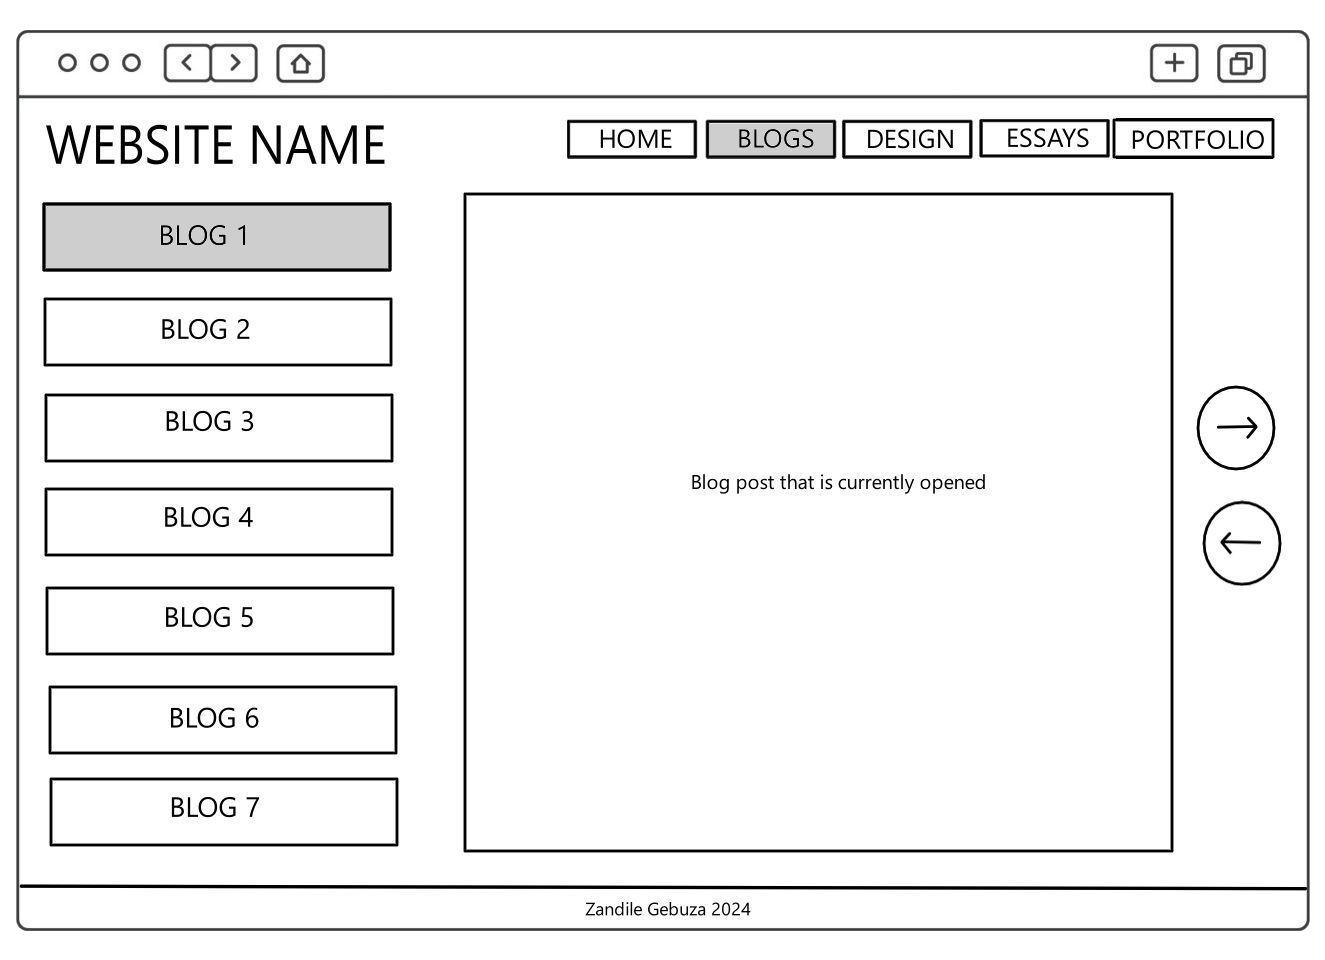
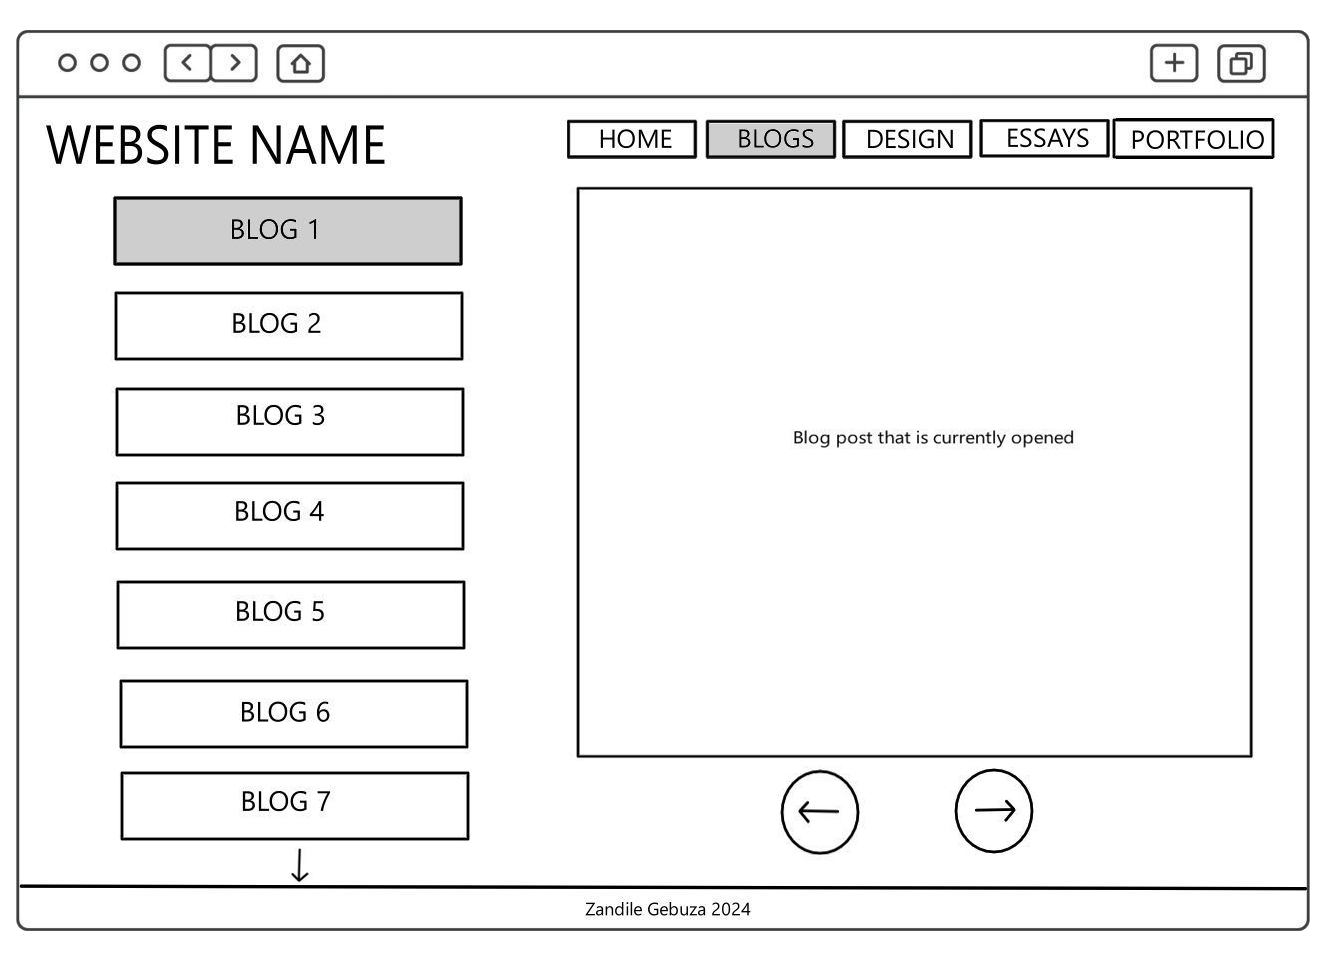
Added Final Mobile Wireframes

diff --git a/design/wireframes.html b/design/wireframes.html
@@ -23,9 +23,9 @@
 </header>
 
 <main>
-   <nav>
+   <nav class="sub-nav">
       <ul>
-      <li>Wireframes</li>
+      <li class="active">Wireframes</li>
       <li><a href="ixd.html">IxD Process</a></li>
       <li><a href="style-guide.html">Style Guide</a></li>
       </ul>
@@ -94,32 +94,45 @@
     <p>A mobile version of the Portfolio page will show one panel at a time. Each one will take up the whole space on the screen so to go to the next panel, the user will click on the next button.</p>
 
     <h2>Final Wireframes</h2>
-    <p>I kept the same structure as the originals, I just made these much neater and I used wireframe-like icons. The boxes with crosses represent images and the circles with arrows represent the next and 
-       back buttons. I also included how the website pages will look on a web browser (the URL bar at the top of the page) and the page footer.</p>
-    
-       <img src="design-images/Final Homepage Wireframe.png" width="745" height="510" alt="A wireframe image of my website's homepage" title="Homepage Wireframe">
+    <img src="design-images/Final Homepage Wireframe.png" width="950" height="650" alt="A wireframe image of my website's homepage" title="Homepage Wireframe">
 
-    <img src="design-images/Final Homepage Mobile Wireframe.png" width="350" height="510" alt="A wireframe image of a mobile verson of my website's homepage" title="Homepage Mobile Wireframe">
+    <img src="design-images/Final Homepage Mobile Wireframe.png" width="330" height="650" alt="A wireframe image of a mobile verson of my website's homepage" title="Homepage Mobile Wireframe">
+    <p>For the desktop version, I kept the same structure as the original draft. I just made these much neater and I used wireframe-like icons. I also included how the website pages will look on a web 
+      browser (the URL bar at the top of the page) and the page footer.The box with a cross represents an image that I will use for the homepage. The currently active page will be greyed out so that the 
+      user knows what page they are on.</p>
+    <p>The mobile version is also the same as the original. I added a browser view and a footer to show exactly how it should appear on a user's phone.</p>
 
-    <img src="design-images/Final Blogs Wireframe.png" width="745" height="510" alt="A wireframe image of my website's blog page" title="Blog Page Wireframe">
+    <img src="design-images/Final Blogs Wireframe.png" width="950" height="650" alt="A wireframe image of my website's blog page" title="Blog Page Wireframe">
 
-    <img src="design-images/Final Blogs Mobile Wireframe.png" width="350" height="510" alt="A wireframe image of a mobile verson of my website's blog page" title="Blog Page Mobile Wireframe">
+    <img src="design-images/Final Blogs Mobile Wireframe.png" width="330" height="650" alt="A wireframe image of a mobile verson of my website's blog page" title="Blog Page Mobile Wireframe">
+    <p>Both the desktop and mobile versions are different from the original. I first wanted to make the blogs to appear as book pages so two pages would be in view. However, I decided to remove that because 
+      the blogs aren't that long to require two pages. I also removed the buttons from the right side of the page to be at the bottom. This is so that all my pages are consistent and I wouldn't want to surprise 
+      the user with the buttons being at an unfamilar location.</p>
+    <p>For the mobile version, I removed the list/tabs of other blog posts. There are already buttons to go to the next page so it would be unnecessary to have those other blog tabs. Also, in terms of the spacing 
+      on the page, it is much neater if the tabs are removed.</p>
 
-    <img src="design-images/Final Design Wireframe.png" width="745" height="510" alt="A wireframe image of my website's design page" title="Design Page Wireframe">
+    <img src="design-images/Final Design Wireframe.png" width="950" height="650" alt="A wireframe image of my website's design page" title="Design Page Wireframe">
 
-    <img src="design-images/Final Design Mobile Wireframe.png" width="350" height="510" alt="A wireframe image of a mobile verson of my website's design page" title="Design Page Mobile Wireframe">
+    <img src="design-images/Final Design Mobile Wireframe.png" width="330" height="650" alt="A wireframe image of a mobile verson of my website's design page" title="Design Page Mobile Wireframe">
+    <p>For the desktop version, I removed the images from the left side to the middle of the page. This is because I probably won't have a lot of images but I will have a lot of paragraphs so I wouldn't want
+      my images to remain at the top of the page while the words continue down the page.</p>
+    <p>The mobile version is the same as the original structure.</p>
 
-    <img src="design-images/Final Essays Wireframe.png" width="745" height="510" alt="A wireframe image of my website's essay page" title="Essay Page Wireframe">
+    <img src="design-images/Final Essays Wireframe.png" width="950" height="650" alt="A wireframe image of my website's essay page" title="Essay Page Wireframe">
 
-    <img src="design-images/Final Essays Mobile Wireframe.png" width="350" height="510" alt="A wireframe image of a mobile verson of my website's essay page" title="Essay Page Mobile Wireframe">
+    <img src="design-images/Final Essays Mobile Wireframe.png" width="330" height="650" alt="A wireframe image of a mobile verson of my website's essay page" title="Essay Page Mobile Wireframe">
+    <p>For the desktop version, I used the book page idea from the blog posts. Each essay will appear as pages in a book.</p>
+    <p>For the mobile version, I removed the summary tab but everything remains the same. I decided to remove this tab because I think it should appear on the essay homepage not on the actual essay page.</p>
 
-    <img src="design-images/Final Profile Wireframe.png" width="745" height="510" alt="A wireframe image of my website's profile page" title="Profile Page Wireframe">
+    <img src="design-images/Final Profile Wireframe.png" width="950" height="650" alt="A wireframe image of my website's profile page" title="Profile Page Wireframe">
 
-    <img src="design-images/Final Profile Mobile Wireframe.png" width="350" height="510" alt="A wireframe image of a mobile verson of my website's profile page" title="Profile Page Mobile Wireframe">
+    <img src="design-images/Final Profile Mobile Wireframe.png" width="330" height="650" alt="A wireframe image of a mobile verson of my website's profile page" title="Profile Page Mobile Wireframe">
+    <p>Both the desktop and mobile versions are the same as the original.</p>
 
-    <img src="design-images/Final Portfolio Wireframe.png" width="745" height="510" alt="A wireframe image of my website's portfolio page" title="Portfolio Page Wireframe">
+    <img src="design-images/Final Portfolio Wireframe.png" width="950" height="650" alt="A wireframe image of my website's portfolio page" title="Portfolio Page Wireframe">
 
-    <img src="design-images/Final Portfolio Mobile Wireframe.png" width="350" height="510" alt="A wireframe image of a mobile verson of my website's portfolio page" title="Portfolio Page Mobile Wireframe">
+    <img src="design-images/Final Portfolio Mobile Wireframe.png" width="330" height="650" alt="A wireframe image of a mobile verson of my website's portfolio page" title="Portfolio Page Mobile Wireframe">
+    <p>Both the desktop and mobile versions are the same as the original.</p>
 </article>
 </main>
 

diff --git a/styles/essay-styles.css b/styles/essay-styles.css
@@ -2,6 +2,44 @@
     display: flex;  
 }
 
+.sub-nav ul{
+    display: flex;
+    font-size: 20px;
+    list-style-type: none;
+    justify-content: center;
+    gap: 10px;
+}
+
+.sub-nav ul li{
+    border: 3px solid black;
+    border-radius: 5px;
+    padding: 5px;
+    background: rgb(167, 226, 220);
+}
+
+.sub-nav ul li a{
+    text-decoration: none;
+    color: black;
+    font-weight: bold;
+}
+
+.sub-nav ul li:hover
+{
+    background-color: rgb(240, 162, 201);
+}
+
+.sub-nav li.active
+{
+    background: rgb(206, 206, 206);
+    font-weight: bold;
+}
+
+.sub-nav li.active:hover
+{
+    background: rgb(206, 206, 206);
+    font-weight: bold;
+}
+
 section{
     text-align: justify;
     background: rgb(230, 222, 185);

diff --git a/styles/design-styles.css b/styles/design-styles.css
@@ -5,3 +5,41 @@
 .title{
     text-align: center;
 }
+
+.sub-nav ul{
+    display: flex;
+    font-size: 20px;
+    list-style-type: none;
+    justify-content: center;
+    gap: 10px;
+}
+
+.sub-nav ul li{
+    border: 3px solid black;
+    border-radius: 5px;
+    padding: 5px;
+    background: rgb(167, 226, 220);
+}
+
+.sub-nav ul li a{
+    text-decoration: none;
+    color: black;
+    font-weight: bold;
+}
+
+.sub-nav ul li:hover
+{
+    background-color: rgb(240, 162, 201);
+}
+
+.sub-nav li.active
+{
+    background: rgb(206, 206, 206);
+    font-weight: bold;
+}
+
+.sub-nav li.active:hover
+{
+    background: rgb(206, 206, 206);
+    font-weight: bold;
+}

diff --git a/styles/portfolio-styles.css b/styles/portfolio-styles.css
@@ -13,4 +13,40 @@
     text-align: justify;
 }
 
+.sub-nav ul{
+    display: flex;
+    font-size: 20px;
+    list-style-type: none;
+    justify-content: center;
+    gap: 10px;
+}
 
+.sub-nav ul li{
+    border: 3px solid black;
+    border-radius: 5px;
+    padding: 5px;
+    background: rgb(167, 226, 220);
+}
+
+.sub-nav ul li a{
+    text-decoration: none;
+    color: black;
+    font-weight: bold;
+}
+
+.sub-nav ul li:hover
+{
+    background-color: rgb(240, 162, 201);
+}
+
+.sub-nav li.active
+{
+    background: rgb(206, 206, 206);
+    font-weight: bold;
+}
+
+.sub-nav li.active:hover
+{
+    background: rgb(206, 206, 206);
+    font-weight: bold;
+}

diff --git a/design/ixd.html b/design/ixd.html
@@ -23,15 +23,15 @@
 </header>
 
 <main>
-<nav>
+<nav class="sub-nav">
 <ul>
     <li><a href="wireframes.html">Wireframes</a></li>
-    <li>IxD Process</li>
+    <li class="active">IxD Process</li>
     <li><a href="style-guide.html">Style Guide</a></li>
 </ul>
 </nav>
 
-    <h1 class="pageName">IxD Process</h1>
+<h1 class="pageName">IxD Process</h1>
 <article class="h-entry">
     <h2>User Alignment</h2>
     <ul>

diff --git a/design/style-guide.html b/design/style-guide.html
@@ -23,11 +23,11 @@
 </header>
                 
 <main>
-<nav>
+<nav class="sub-nav">
 <ul>
     <li><a href="wireframes.html">Wireframes</a></li>
     <li><a href="ixd.html">IxD Process</a></li>
-    <li>Style Guide</li>
+    <li class="active">Style Guide</li>
 </ul>
 </nav>
 

diff --git a/portfolio/portfolio2.html b/portfolio/portfolio2.html
@@ -23,10 +23,10 @@
 </header>
 
 <main>
-<nav>
+<nav class="sub-nav">
 <ul>
    <li><a href="portfolio1.html">Traditional Art</a></li>
-   <li>Digital Art</li>
+   <li class="active">Digital Art</li>
    <li><a href="portfolio3.html">Games</a></li>
 </ul>
 </nav>

diff --git a/portfolio/portfolio3.html b/portfolio/portfolio3.html
@@ -23,11 +23,11 @@
 </header>
 
 <main>
-<nav>
+<nav class="sub-nav">
 <ul>
    <li><a href="portfolio1.html">Traditional Art</a></li>
    <li><a href="portfolio2.html">Digital Art</a></li>
-   <li>Games</li>
+   <li class="active">Games</li>
 </ul>
 </nav>
 

diff --git a/portfolio/portfolio1.html b/portfolio/portfolio1.html
@@ -23,9 +23,9 @@
 </header>
 
 <main>
-<nav>
+<nav class="sub-nav">
 <ul>
-   <li>Traditional Art</li>
+   <li class="active">Traditional Art</li>
    <li><a href="portfolio2.html">Digital Art</a></li>
    <li><a href="portfolio3.html">Games</a></li>
 </ul>

diff --git a/essays/essay2.html b/essays/essay2.html
@@ -23,10 +23,10 @@
 </header>    
 
 <main>
-<nav>
+<nav class="sub-nav">
 <ul>
     <li><a href="essay1.html">Essay 1</a></li>
-    <li>Essay 2</li>
+    <li class="active">Essay 2</li>
 </ul>
 </nav>
 

diff --git a/portfolio/profile.html b/portfolio/profile.html
@@ -23,9 +23,9 @@
 </header>
 
 <main>
-<nav>
+<nav class="sub-nav">
 <ul>
-    <li>Profile</li>
+    <li class="active">Profile</li>
     <li><a href="portfolio1.html">Portfolio</a></li>
 </ul>
 </nav>

diff --git a/essays/essay1.html b/essays/essay1.html
@@ -23,9 +23,9 @@
 </header>
 
 <main>
-<nav>
+<nav class="sub-nav">
 <ul>
-   <li>Essay 1</li>
+   <li class="active">Essay 1</li>
    <li><a href="essay2.html">Essay 2</a></li>
 </ul>
 </nav>
